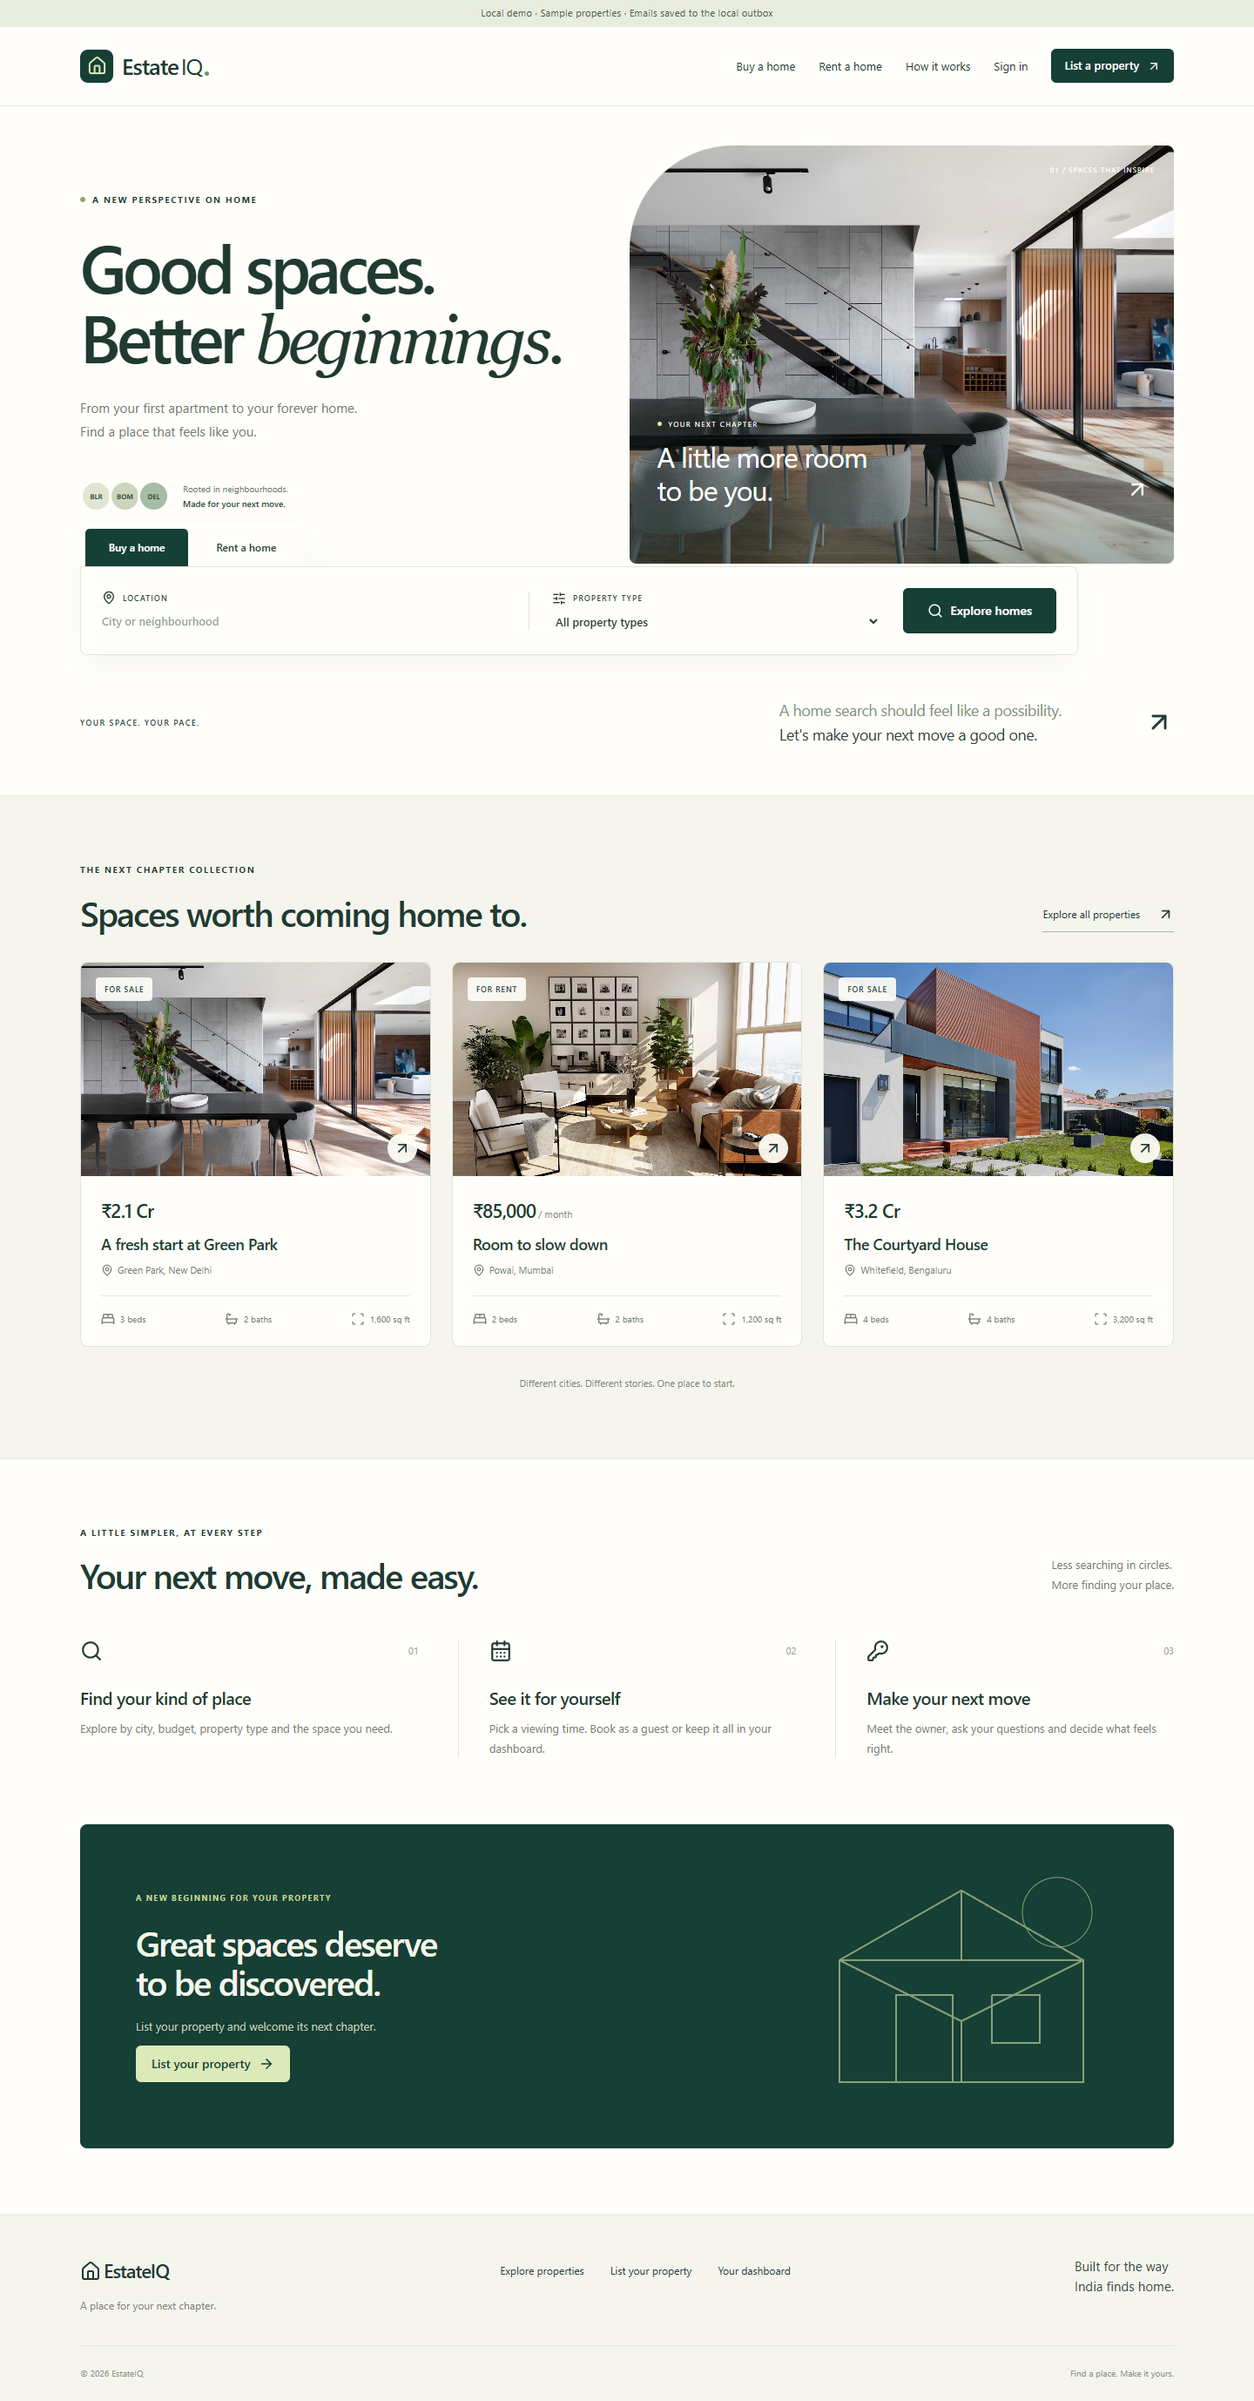
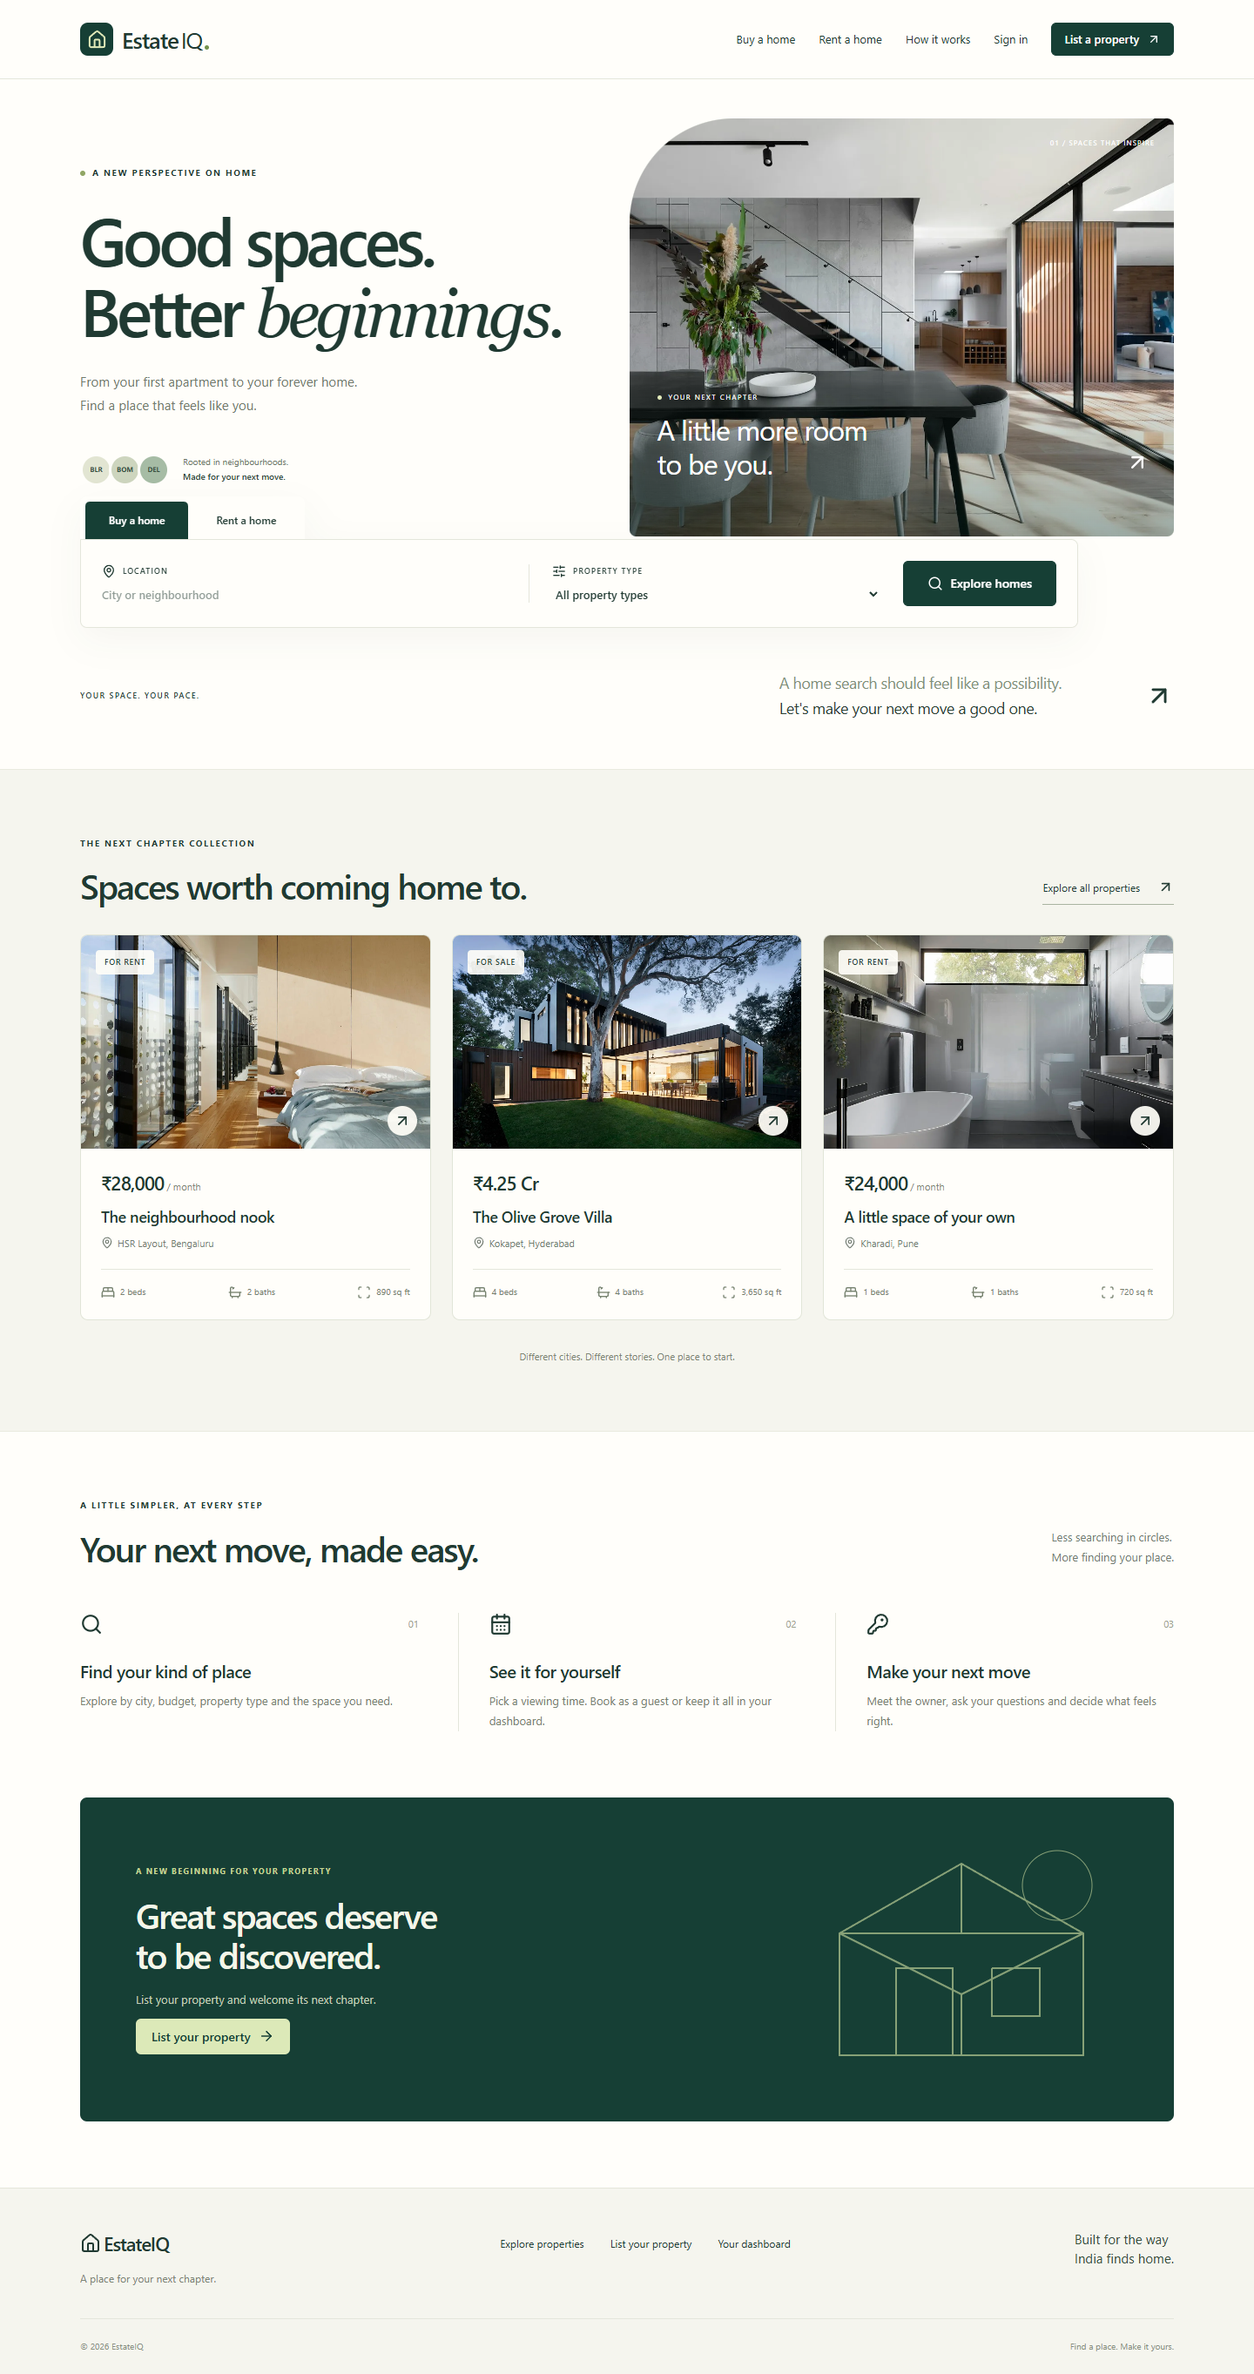
Verified the live site and documented the connected services

diff --git a/api/server.js b/api/server.js
@@ -3,10 +3,12 @@ import { createApp } from '../backend/src/app.js';
 import { createStore } from '../backend/src/store.js';
 import { configuration } from '../backend/src/config.js';
 let appPromise;
+let retryAt = 0;
+const catalog = createCatalogApp();
 async function application() {
   if (!appPromise) {
     appPromise = (async () => {
-      if (process.env.LIVE_SERVICES !== 'true') return createCatalogApp();
+      if (process.env.LIVE_SERVICES !== 'true') return catalog;
       const config = configuration({
         ...process.env,
         NODE_ENV: 'production',
@@ -17,6 +19,8 @@ async function application() {
       return createApp(store, config);
     })().catch((e) => {
       appPromise = undefined;
+      retryAt = Date.now() + 30000;
+      console.error('Live service startup failed', e.name);
       throw e;
     });
   }
@@ -40,15 +44,10 @@ export default async function handler(req, res) {
     value: query,
   });
   try {
-    const app = await application();
+    const app = Date.now() < retryAt ? catalog : await application();
     return app(req, res);
   } catch {
-    res.statusCode = 503;
-    res.setHeader('Content-Type', 'application/json');
-    res.end(
-      JSON.stringify({
-        message: 'The service is temporarily unavailable. Please try again shortly.',
-      }),
-    );
+    // Keep public sample browsing available; catalog rejects every mutation.
+    return catalog(req, res);
   }
 }

diff --git a/backend/test/catalog.test.js b/backend/test/catalog.test.js
@@ -93,3 +93,31 @@ test('serverless adapter removes internal routing metadata before filtering', as
     server.close();
   }
 });
+
+test('unavailable live configuration falls back to explicit read-only browsing', async () => {
+  const old = process.env.LIVE_SERVICES,
+    uri = process.env.MONGODB_URI;
+  process.env.LIVE_SERVICES = 'true';
+  delete process.env.MONGODB_URI;
+  const { default: handler } = await import('../../api/server.js?fallback-check');
+  const http = await import('node:http');
+  const server = http.createServer((req, res) => {
+    const route = req.url.includes('register') ? 'auth/register' : 'health';
+    Object.defineProperty(req, 'query', {
+      configurable: true,
+      value: { __route: route, path: route },
+    });
+    handler(req, res);
+  });
+  try {
+    const r = await request(server).get('/api/health').expect(200);
+    assert.equal(r.body.mode, 'showcase');
+    await request(server).post('/api/auth/register').send({}).expect(503);
+  } finally {
+    server.close();
+    if (old === undefined) delete process.env.LIVE_SERVICES;
+    else process.env.LIVE_SERVICES = old;
+    if (uri === undefined) delete process.env.MONGODB_URI;
+    else process.env.MONGODB_URI = uri;
+  }
+});

diff --git a/backend/src/catalog.js b/backend/src/catalog.js
@@ -33,6 +33,15 @@ export function createCatalogApp() {
   app.get('/api/health', (req, res) =>
     res.json({ status: 'ok', mode: 'showcase', properties: rows.length }),
   );
+  app.get('/sitemap.xml', (req, res) => {
+    const site = process.env.FRONTEND_URL || `${req.protocol}://${req.get('host')}`;
+    const escape = (v) => v.replaceAll('&', '&amp;').replaceAll('<', '&lt;');
+    res
+      .type('xml')
+      .send(
+        `<?xml version="1.0" encoding="UTF-8"?><urlset xmlns="http://www.sitemaps.org/schemas/sitemap/0.9">${['', '/properties', ...rows.map((p) => '/properties/' + p.id)].map((p) => `<url><loc>${escape(new URL(p || '/', site).href)}</loc></url>`).join('')}</urlset>`,
+      );
+  });
   app.get(['/api/users/me', '/api/dashboard'], (req, res) => res.status(401).json(unavailable));
   const store = {
     one: async (table, q) =>

diff --git a/docs/deployment.md b/docs/deployment.md
@@ -1,6 +1,6 @@
 # Service setup and deployment
 
-All account configuration was deliberately deferred until after building. Do not paste secrets into chat or commit them. Configure them directly in your local `.env` or hosting environment settings.
+Account configuration was initially deferred until after building. The full application is now deployed on Vercel; the current setup is described below. Do not paste secrets into chat or commit them. Configure them directly in your local `.env` or hosting environment settings.
 
 ## Required backend values
 
@@ -34,7 +34,7 @@ This is the simplest cookie-compatible deployment. The Express server serves bot
 3. Set the backend values above. Set `FRONTEND_URL`, `PUBLIC_API_URL` and `VITE_SITE_URL` to the **same** Render HTTPS origin (or the same custom website origin). Leave `VITE_API_URL` empty for same-origin requests.
 4. Deploy and run the live checklist below. No persistent filesystem is required in production because records use MongoDB and images use ImageKit.
 
-The included Blueprint generates a JWT secret, but the other account values remain manual. No deployment was created during this build.
+The included Blueprint generates a JWT secret, but the other account values remain manual. No Render deployment was created; the current live deployment uses Vercel.
 
 ## Option B: Vercel frontend and Render API
 
@@ -66,3 +66,21 @@ Never use `VITE_` names for private keys, MongoDB strings, SMTP passwords or JWT
 Demo JSON storage is single-process development storage and is forbidden in production. Production rate limits are in-process and reset on restart; use a shared limiter before scaling to multiple instances. Listing removal archives the property and cancels active requests; archived images remain for record retention. Failed remote image cleanup logs a generic message and may need an ImageKit cleanup pass. Email failures do not erase a successfully saved viewing; the UI gives the guest a private management link. Password-reset responses remain generic even when delivery fails, so monitor delivery logs.
 
 Keep database backups and define a retention policy for archived listings and personal contact details before operating a public marketplace. The application does not verify property ownership documents or handle payments. These are separate product capabilities, not parts of the supplied core guide.
+
+## Current full-stack Vercel deployment
+
+Live site: https://estateiq-rho-ten.vercel.app . Project: `estateiq`, workspace: `orpheusdarks-projects`. GitHub is connected for deployment from this repository.
+
+The root `api/server.js` function routes requests to the full Express application when `LIVE_SERVICES=true`. MongoDB connections are reused across warm requests. `DEMO_MODE=false`, a production configuration and a single trusted Vercel proxy are enforced for this function. The frontend uses relative `/api` requests, so authentication cookies remain on the same origin. Vercel wildcard routing metadata is removed before validating application filters.
+
+Private Vercel environment settings contain `MONGODB_URI`, `JWT_SECRET`, `IMAGEKIT_PRIVATE_KEY`, `SMTP_USER`, `SMTP_PASS` and `SMTP_FROM`. Public origins and non-secret settings use plain configuration values. `VITE_API_URL` stays empty; `FRONTEND_URL`, `PUBLIC_API_URL` and `VITE_SITE_URL` point to the live origin. Do not commit `.env` files or copy private values into deployment commands or logs.
+
+MongoDB holds the 18 illustrative listings, seeded under the configured university email's owner account. The initial owner password was generated randomly and was not sent or exposed; use Forgot password when ready to choose an owner password. No reset email was sent during setup, at the user's request. Other users can register normally.
+
+Photo uploads accept up to four images, maximum 4 MB per file. The editor sends one file per request to stay below Vercel's 4.5 MB function payload limit. Sharp decodes and converts the images before ImageKit stores them. The dynamic `/sitemap.xml` route comes from the API and reflects actual database property IDs.
+
+If the live application cannot initialize, the function serves an explicit read-only sample catalog and retries after 30 seconds. It never pretends to save account, property or booking mutations during fallback. Set `LIVE_SERVICES=false` and redeploy only when an intentional showcase-only deployment is wanted.
+
+Verification completed: Atlas connection and ping, Gmail SMTP authentication without sending email, ImageKit credential verification, and live Chrome registration, persisted cookie sessions, login/logout, property creation and four actual ImageKit uploads. Temporary test images and database records were removed. Email delivery and live booking submissions were not exercised because the user asked to skip email.
+
+The local `.env` now also has `DEMO_MODE=false`; `npm run dev` uses Atlas and ImageKit. To run an isolated JSON demo instead, explicitly set `DEMO_MODE=true` locally. Production refuses JSON demo storage.

diff --git a/README.md b/README.md
@@ -1,5 +1,9 @@
 # EstateIQ
 
+**Live website:** https://estateiq-rho-ten.vercel.app
+
+The frontend and Express API run together on Vercel, with MongoDB Atlas, ImageKit and Gmail SMTP configured through private production settings. The collection contains 18 illustrative homes, each with three photos. Accounts, owner dashboards and property management are enabled. If the database cannot initialize, the server provides a labelled, read-only sample catalog and retries the connection after 30 seconds.
+
 **Find a place for your next chapter.** A full-stack real estate platform for India, implementing the four core modules in the Sapphire IQ RealEstate Platform guide.
 
 React 19 + TypeScript + React Router + Tailwind CSS, with an Express 5 REST API, Mongoose, JWT, bcrypt, Nodemailer, Multer and ImageKit. The optional AI Property Hub is outside this core build and is not implemented.
@@ -40,7 +44,7 @@ Viewings are one-hour slots starting on the hour from 9am to 6pm **IST**, at lea
 ## Checks
 
 ```sh
-npm test                  # 18 API tests using isolated local demo storage
+npm test                  # Full API, catalog, seeding and serverless adapter tests
 npm run check             # Strict frontend TypeScript
 npm run build             # SEO files, TypeScript and production bundles
 npm run test:browser       # Chrome smoke flow; run npm run dev in another terminal first
@@ -50,7 +54,7 @@ npm audit
 
 The MongoDB command downloads a MongoDB binary on first use and needs network access. It does not use Atlas credentials. `MONGOMS_SYSTEM_BINARY` can point to an installed `mongod`. Browser checks use installed Chrome by default; set `BROWSER_CHANNEL` or `BROWSER_EXECUTABLE` for another Chromium installation. Browser checks create a local test account and remove their test listing when successful.
 
-**Verified during this build:** production build, TypeScript, 18 local API tests, desktop/mobile browser flow, and dependency audit (zero known vulnerabilities). The local MongoDB binary download was stopped because it was too slow; the same 18-test suite subsequently passed against an isolated MongoDB instance on GitHub Actions. Atlas, ImageKit, SMTP and hosted deployment have not been configured or tested. The [GitHub validation run](https://github.com/orpheusdark/real_eastate/actions/runs/41393536949) passed the API, MongoDB, build and production audit steps.
+**Verified during this build:** production build, TypeScript, 24 local API/catalog tests, desktop/mobile browser flow, and dependency audit (zero known vulnerabilities). The local MongoDB binary download was stopped because it was too slow; the same 18-test suite subsequently passed against an isolated MongoDB instance on GitHub Actions. Atlas connectivity and Gmail SMTP authentication have since passed. The full Vercel site was tested in Chrome with registration, persisted cookie sessions, login/logout, listing creation and four real ImageKit uploads. Temporary test records and images were removed. Email delivery and live viewing submissions were skipped at the user’s request. The [GitHub validation run](https://github.com/orpheusdark/real_eastate/actions/runs/41393536949) passed the API, MongoDB, build and production audit steps.
 
 ## Configuration comes last
 

diff --git a/docs/development-log.md b/docs/development-log.md
@@ -23,3 +23,15 @@ Added the API reference, requirement mapping, architecture, local/demo usage, de
 ## Verified the MongoDB adapter on GitHub
 
 The explicit `TEST_MONGO=true` workflow passed the complete 18-test suite against an isolated MongoDB process, in addition to the JSON-demo suite, production build and dependency audit. This verifies the Mongoose adapter without implying any Atlas, ImageKit, SMTP or deployment credentials were configured.
+
+## Expanded homes and deployed the browsing preview
+
+Added 18 illustrative homes across Indian cities with fuller descriptions, amenities and three-photo galleries. Twelve optimized WebP photos are served locally, with source identifiers retained in the credits manifest. Demo seeding adds missing sample homes without deleting user properties or duplicating the collection.
+
+Linked the EstateIQ Vercel project to GitHub and published a read-only catalog while database authentication is pending. Added explicit preview messaging and withheld account/booking forms so visitors cannot mistake a sample catalog for a connected marketplace. Added tests for gallery assets, pagination, blocked writes, idempotent seeding and serverless routing metadata. No credentials are deployed with the preview.
+
+## Connected and verified the full live platform
+
+Corrected private database password formatting, verified Atlas connectivity and seeded the 18 homes. Applied service credentials through private Vercel environment settings, enabled the full same-origin Express API and adapted image uploads to one file per request. Atlas network access was updated by the user.
+
+Live Chrome checks passed registration, persistent cookie sessions, login/logout, property creation, four real ImageKit uploads, property filters, galleries and responsive layouts. All temporary live test records and images were removed. No email was sent and live viewing submission was not tested, respecting the user's instruction to skip email. Added startup fallback and sitemap coverage for temporary database unavailability.

diff --git a/docs/validation.md b/docs/validation.md
@@ -24,3 +24,11 @@ The API suite exercises configuration guards, password hashing, duplicate regist
 - A live Vercel or Render deployment.
 
 Screenshots in `docs/screenshots/` are local demo captures. Seed imagery comes from Unsplash and can depend on network availability. Browser smoke tests use an actual uploaded PNG fixture for the image workflow.
+
+## Subsequent live deployment verification
+
+The full app is deployed at https://estateiq-rho-ten.vercel.app . The expanded local API/catalog suite has 24 passing tests. The production build and strict TypeScript check pass.
+
+Atlas connection and ping passed after the user updated network access. Gmail SMTP authentication passed; no email was sent. ImageKit credentials passed, followed by four actual uploads through the live property editor. Live Chrome checks passed registration, session persistence on refresh, logout/login, property creation, image display, city/rent filtering, gallery selection and mobile/tablet/desktop layouts without page errors. Temporary test images, listing and account were removed.
+
+Email delivery, reset-link delivery and live viewing submission remain untested at the user's request to skip email. These flows have automated local API coverage; do not equate that with confirmed production email delivery.

diff --git a/docs/api.md b/docs/api.md
@@ -16,7 +16,7 @@ All application endpoints use `/api`. JSON errors have `{ "message": "..." }`. A
 | POST   | `/properties`                        | Signed in; create a listing                                  |
 | PATCH  | `/properties/:id`                    | Owner; replace editable property details                     |
 | DELETE | `/properties/:id`                    | Owner; archive listing and cancel its active appointments    |
-| POST   | `/properties/:id/images`             | Owner; multipart field `images`, up to 4 total, 5 MB/file    |
+| POST   | `/properties/:id/images`             | Owner; multipart field `images`, up to 4 total, 4 MB/file    |
 | DELETE | `/properties/:id/images/:fileId`     | Owner; remove an image                                       |
 | POST   | `/properties/:id/appointments/guest` | Guest viewing request                                        |
 | POST   | `/properties/:id/appointments`       | Signed-in viewing request                                    |
